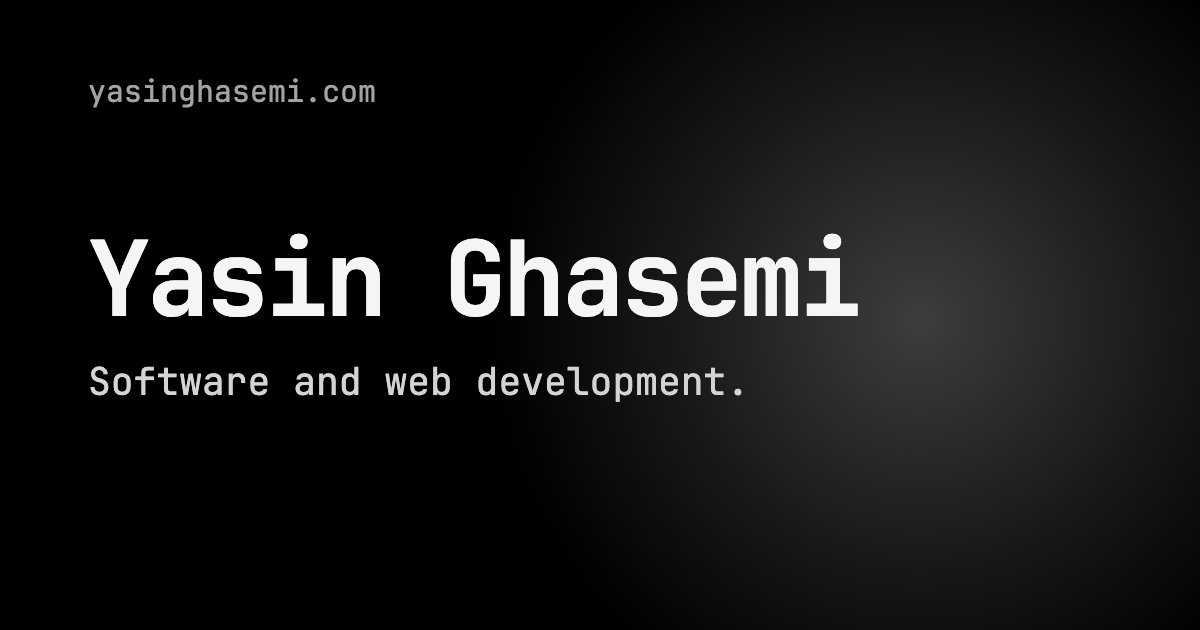
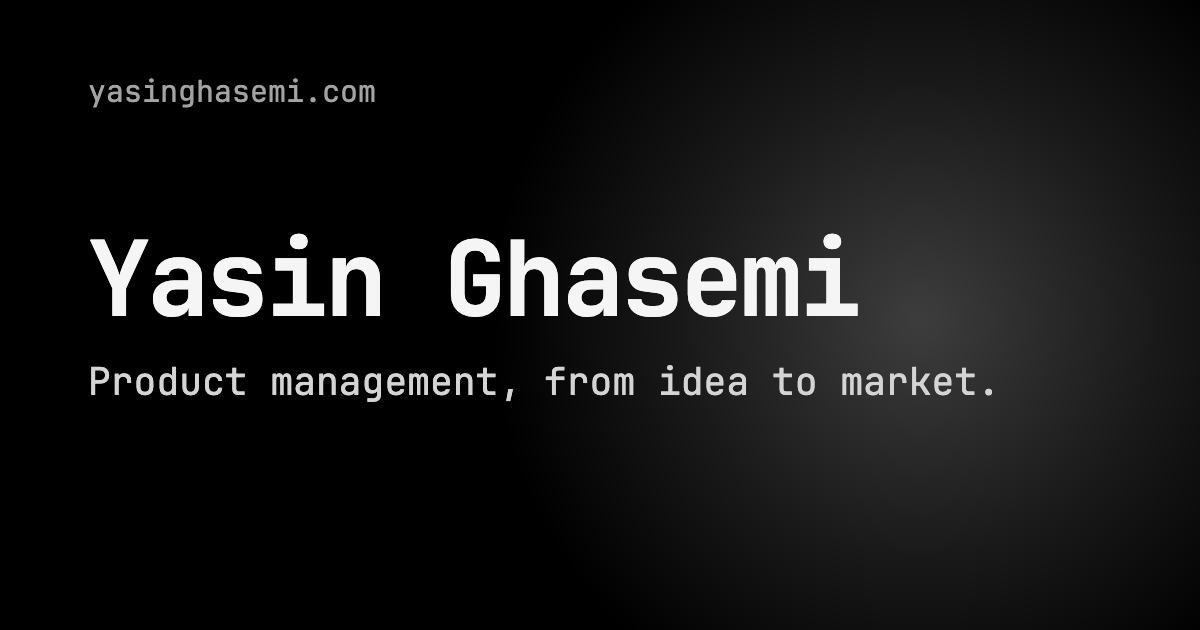
fix(positioning): present product management experience

Changed region(s): [[0.2775, 0.573, 0.8325, 0.6333], [0.0617, 0.573, 0.2467, 0.6333]]

diff --git a/app/layout.tsx b/app/layout.tsx
@@ -39,14 +39,14 @@ export const metadata: Metadata = {
     template: "%s | Yasin Ghasemi",
   },
   description:
-    "Yasin Ghasemi writes about building software, project decisions, and lessons learned along the way.",
+    "Yasin Ghasemi is a product manager who writes about building products, the decisions behind them, and lessons learned along the way.",
   alternates: { canonical: siteConfig.origin },
   openGraph: {
     type: "website",
     siteName: siteConfig.name,
     title: "Yasin Ghasemi",
     description:
-      "Notes on software projects, the decisions behind them, and lessons learned along the way.",
+      "Notes on building products, the decisions behind them, and lessons learned along the way.",
     url: siteConfig.origin,
     images: [socialImageDescriptor(defaultSocialImage)],
   },
@@ -54,7 +54,7 @@ export const metadata: Metadata = {
     card: "summary_large_image",
     title: "Yasin Ghasemi",
     description:
-      "Notes on software projects, the decisions behind them, and lessons learned along the way.",
+      "Notes on building products, the decisions behind them, and lessons learned along the way.",
     images: [socialImageDescriptor(defaultSocialImage)],
   },
 };

diff --git a/app/projects/page.tsx b/app/projects/page.tsx
@@ -7,7 +7,7 @@ import styles from "./projects.module.css";
 
 export const metadata: Metadata = createPageMetadata({
   title: "Projects",
-  description: "Software and web development projects by Yasin Ghasemi.",
+  description: "Products Yasin Ghasemi has helped take from idea to reality.",
   path: "/projects",
 });
 
@@ -17,8 +17,7 @@ export default function ProjectsPage() {
       <div className={styles.heading}>
         <h1>/projects</h1>
         <p className={styles.subtitle}>
-          I do software and web development. Here is some of what I&apos;ve
-          built.
+          Here are some products I&apos;ve helped take from idea to reality.
         </p>
       </div>
       <ProjectBrowser />

diff --git a/app/page.tsx b/app/page.tsx
@@ -8,10 +8,13 @@ export default function HomePage() {
       <HomeStage posts={getBlogPreviewPosts()}>
         <h1>Hello, I&apos;m Yasin Ghasemi.</h1>
         <div className={styles.copy}>
-          <p>I build things and write about the process.</p>
           <p>
-            This is where I share notes on my projects, the decisions behind
-            them, and what I learn along the way.
+            I&apos;m a product manager with experience building products people
+            value.
+          </p>
+          <p>
+            I&apos;ve worked from ideation and prototyping through launch,
+            marketing, and fundraising.
           </p>
         </div>
       </HomeStage>

diff --git a/tests/e2e/smoke.spec.ts b/tests/e2e/smoke.spec.ts
@@ -10,6 +10,16 @@ test("serves the root page with the welcome note and four links", async ({
   await expect(
     page.getByRole("heading", { name: "Hello, I'm Yasin Ghasemi." }),
   ).toBeVisible();
+  await expect(
+    page.getByText(
+      "I'm a product manager with experience building products people value.",
+    ),
+  ).toBeVisible();
+  await expect(
+    page.getByText(
+      "I've worked from ideation and prototyping through launch, marketing, and fundraising.",
+    ),
+  ).toBeVisible();
 
   const links = page
     .getByRole("navigation", { name: "Sections" })

diff --git a/lib/og-images.ts b/lib/og-images.ts
@@ -18,7 +18,7 @@ export type SocialImage = {
 /** The card (see scripts/generate-og-images.ts) for pages with no image of their own. */
 export const defaultSocialImage: SocialImage = {
   image: defaultCard,
-  alt: "Yasin Ghasemi, software and web development. yasinghasemi.com",
+  alt: "Yasin Ghasemi, product management from idea to market. yasinghasemi.com",
 };
 
 /**

diff --git a/tests/e2e/projects.spec.ts b/tests/e2e/projects.spec.ts
@@ -39,7 +39,7 @@ test.describe("projects page", () => {
     const box = (await heading.boundingBox())!;
     expect(Math.abs(box.x + box.width / 2 - 720)).toBeLessThan(2);
     await expect(
-      page.getByText(/software and web development/i).first(),
+      page.getByText(/products I've helped take from idea to reality/i).first(),
     ).toBeVisible();
   });
 

diff --git a/scripts/generate-og-images.ts b/scripts/generate-og-images.ts
@@ -33,7 +33,7 @@ const FONTS = [
 
 const OWNER = "Yasin Ghasemi";
 const SITE = "yasinghasemi.com";
-const TAGLINE = "Software and web development.";
+const TAGLINE = "Product management, from idea to market.";
 
 async function readGlow() {
   const css = await readFile(resolve(process.cwd(), "app/globals.css"), "utf8");
